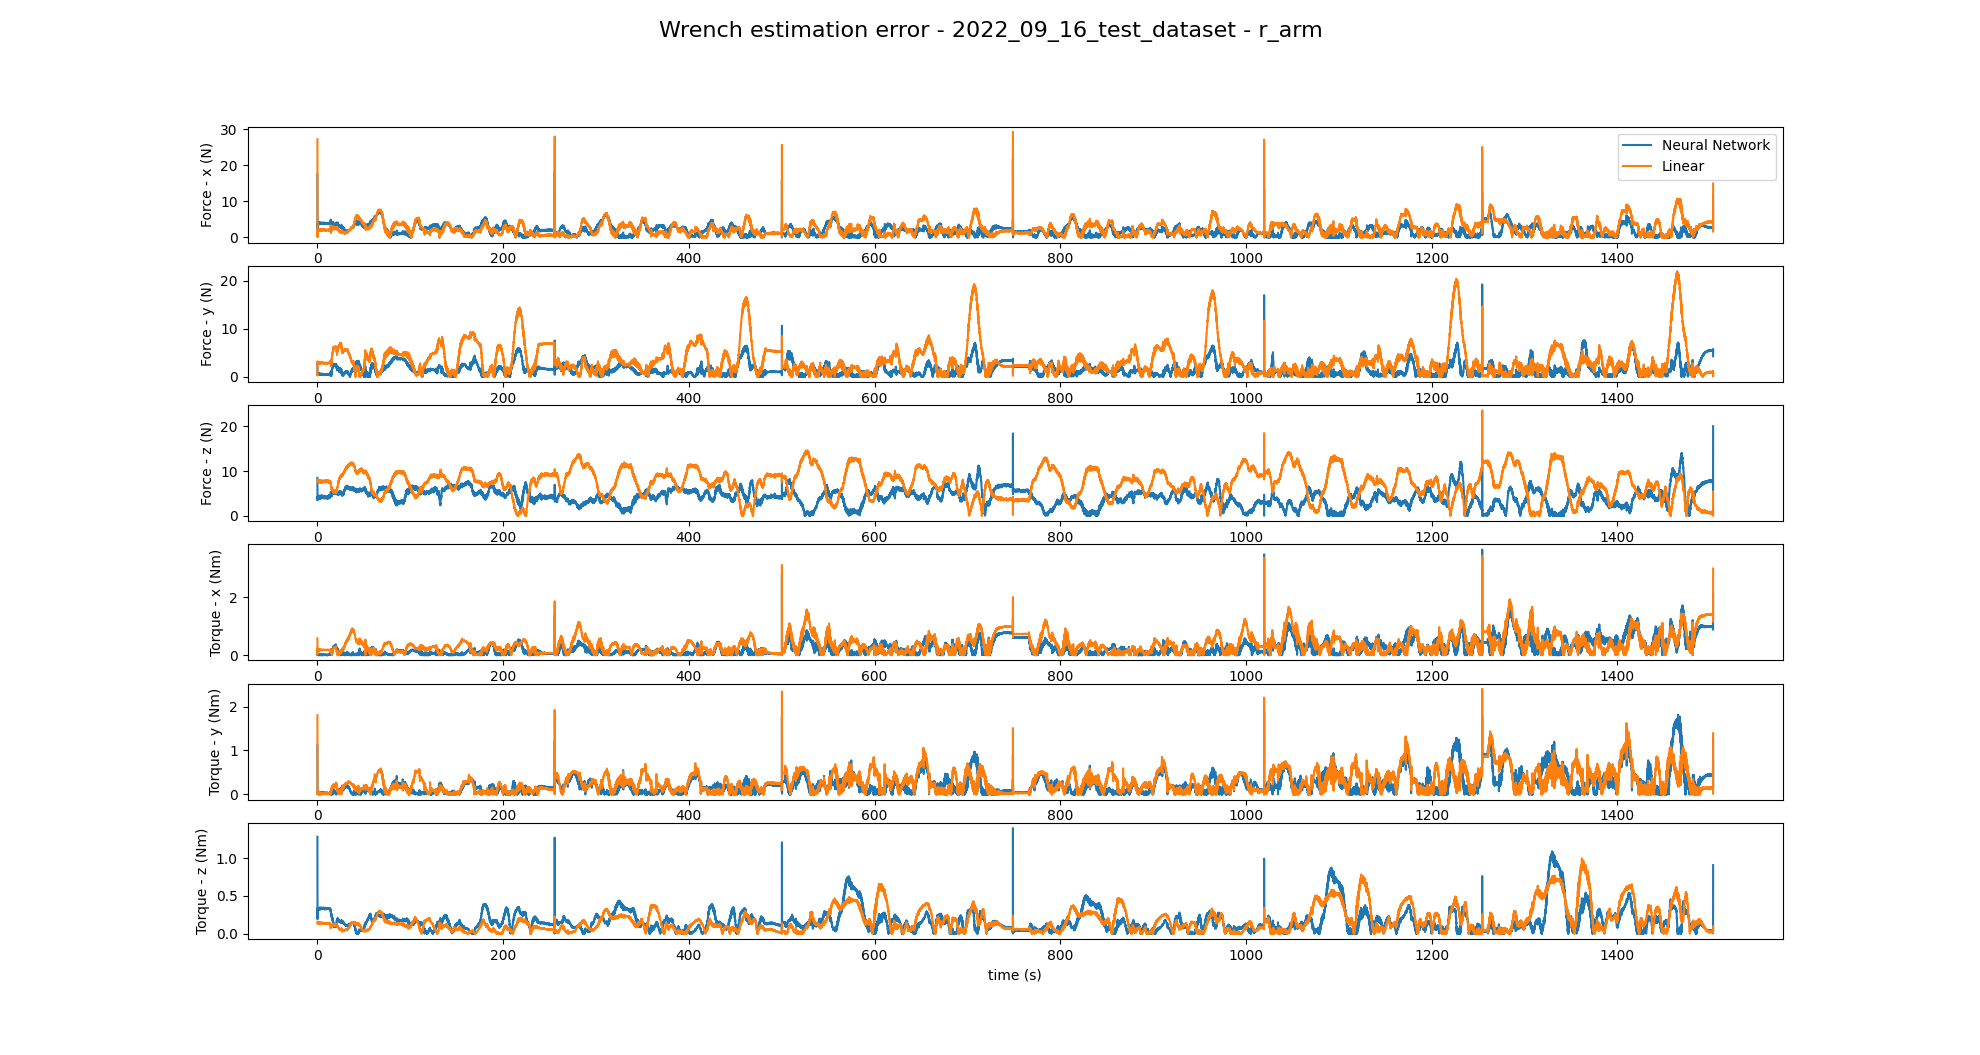
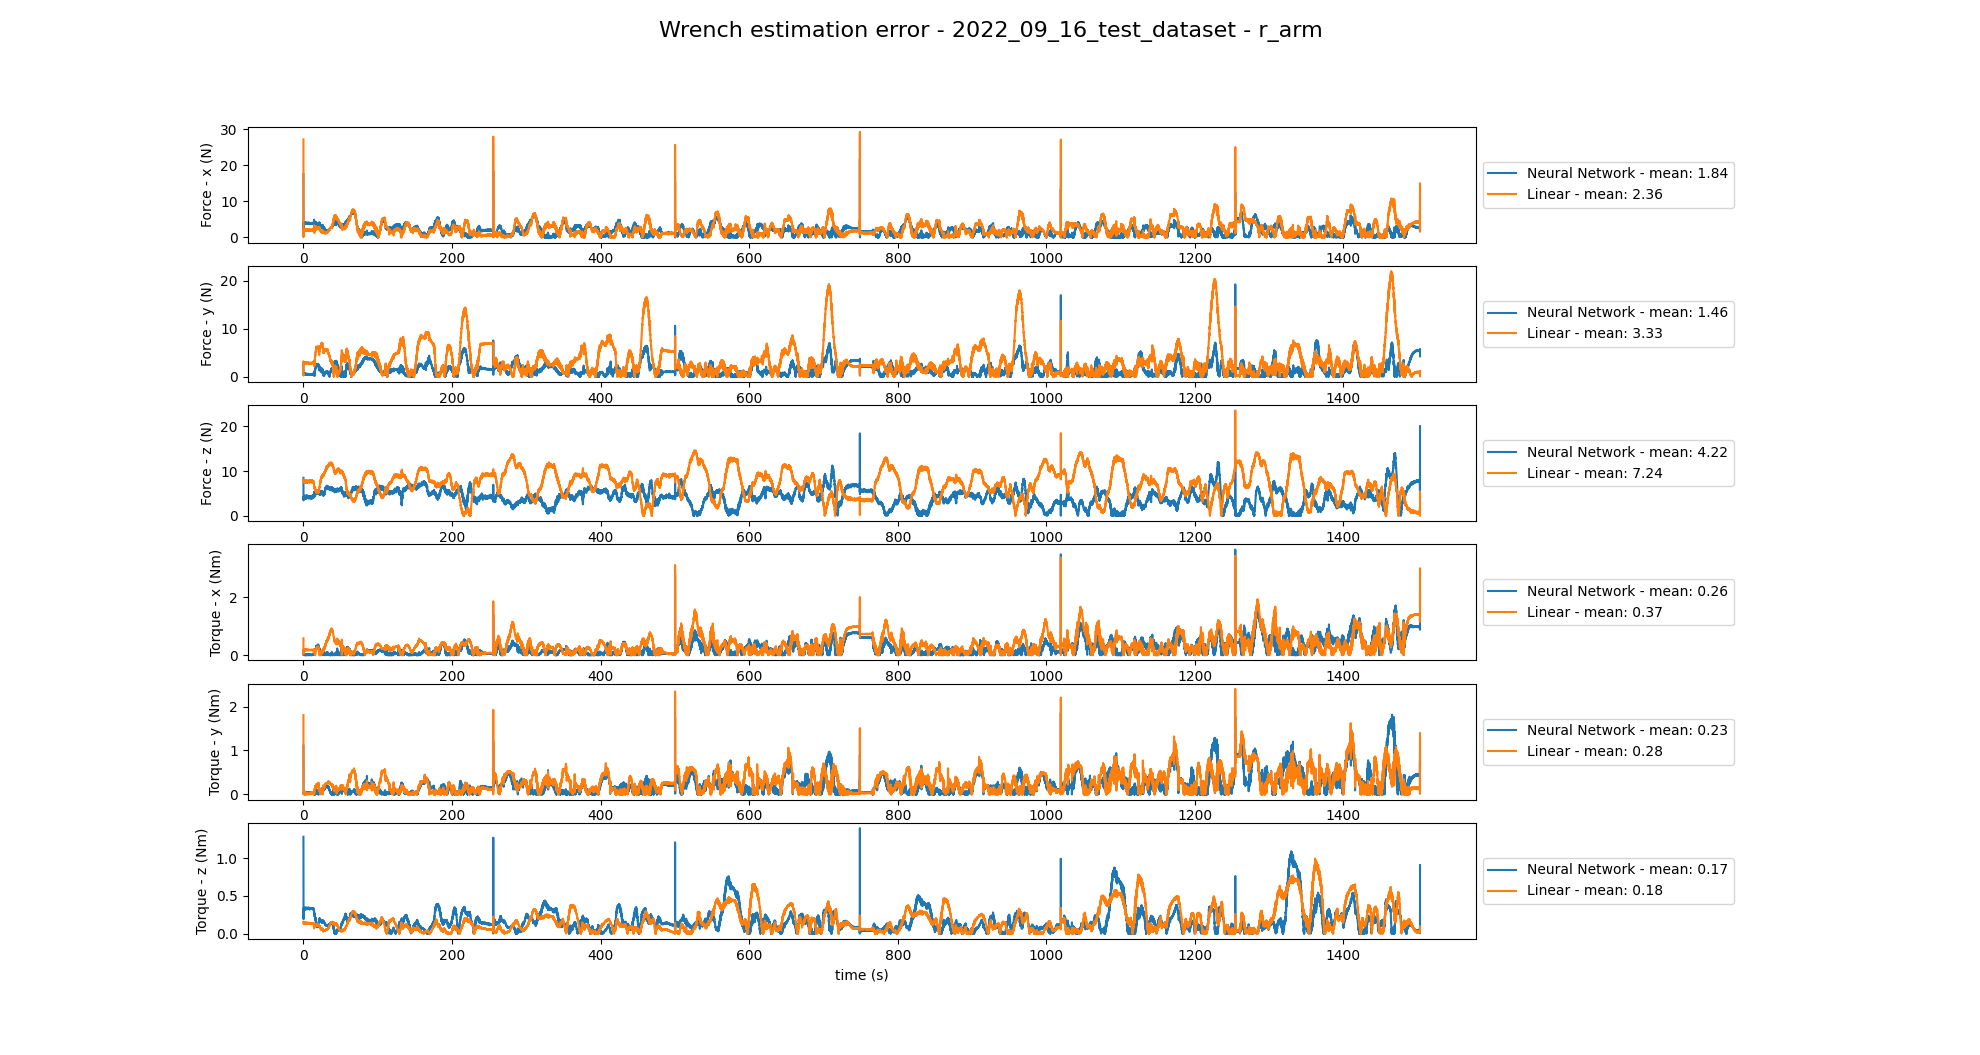
Update plots for weight estimation and wrench estimation error

diff --git a/python/evaluate_net.py b/python/evaluate_net.py
@@ -125,8 +125,8 @@ if __name__ == "__main__":
             ax[1].grid()
 
         fig.suptitle("Wrench estimation - " + test_dataset + " - " + part , fontsize=16)
-        manager = plt.get_current_fig_manager()
-        manager.full_screen_toggle()
+        # manager = plt.get_current_fig_manager()
+        # manager.full_screen_toggle()
         plt.show()
         fig.savefig("../figures/fig1_"+test_dataset+"_"+model_specification+".png")
 
@@ -144,22 +144,37 @@ if __name__ == "__main__":
         b, a = butter(2, 0.0003, btype='low', analog=False)
         # b, a = butter(2, 0.9999, btype='low', analog=False)
         fig = plt.figure()
+
+        ground_truth = np.linalg.norm(dataset["ft_expected"][:, :3], axis=1) / 9.80665 - 3.5 + 0.165
         plt.plot(np.array(range(len(predict_dataset[:, 0]))) * 0.01,
-                 np.linalg.norm(dataset["ft_expected"][:, :3], axis=1) / 9.80665 - 3.5 + 0.165,
+                 ground_truth,
                  label="Ground Truth")
+
+        # Compute RMSE for the neural network
+        filtered_nn_output = filtfilt(b, a, np.linalg.norm(ft_filtered_NN, axis=1) / 9.80665 - 3.5 + 0.165)
+        MSE_nn = np.square(np.subtract(filtered_nn_output, ground_truth)).mean()
+        RMSE_nn = math.sqrt(MSE_nn)
+
         plt.plot(np.array(range(len(predict_dataset[:, 0]))) * 0.01,
-                 filtfilt(b, a, np.linalg.norm(ft_filtered_NN, axis=1) / 9.80665 - 3.5 + 0.165),
-                 label="Neural Network")
+                 filtered_nn_output,
+                 label="Neural Network - RMSE: " + str(round(RMSE_nn, 2)))
+
+        # Compute RMSE for the linear model
+        filtered_linear = filtfilt(b, a, np.linalg.norm(ft_filtered_insitu, axis=1) / 9.80665 - 3.5 + 0.165)
+        MSE_lin = np.square(np.subtract(filtered_linear, ground_truth)).mean()
+        RMSE_lin = math.sqrt(MSE_lin)
+
         plt.plot(np.array(range(len(predict_dataset[:, 0]))) * 0.01,
-                 filtfilt(b, a, np.linalg.norm(ft_filtered_insitu, axis=1) / 9.80665 - 3.5 + 0.165),
-                 label="Linear")
+                 filtered_linear,
+                 label="Linear - RMSE: " + str(round(RMSE_lin, 2)))
+        
         plt.xlabel("time (s)")
         plt.ylabel("norm(f) / g")
         fig.suptitle("Weight estimation - " + test_dataset + " - " + part , fontsize=16)
         plt.grid()
         plt.legend()
-        manager = plt.get_current_fig_manager()
-        manager.full_screen_toggle()
+        # manager = plt.get_current_fig_manager()
+        # manager.full_screen_toggle()
         plt.show()
         fig.savefig("../figures/fig2_"+test_dataset+"_"+model_specification+".png")
 
@@ -173,28 +188,36 @@ if __name__ == "__main__":
             #     label="FT value with pure offset removal",
             # )
 
-            ax[i].plot(
-                np.array(range(len(predict_dataset[:, i]))) * 0.01,
-                np.abs(predict_dataset[:, i] - dataset["ft_expected"][:, i]),
-                label="Neural Network",
-            )
+            # Compute mean of the neural network error
+            nn_abs_error = np.abs(predict_dataset[:, i] - dataset["ft_expected"][:, i])
 
             ax[i].plot(
                 np.array(range(len(predict_dataset[:, i]))) * 0.01,
-                np.abs(prev_predict[:, i] - dataset["ft_expected"][:, i]),
-                label="Linear",
+                nn_abs_error,
+                label="Neural Network - mean: " + str(round(nn_abs_error.mean(),2)),
             )
 
-            if i == 0:
-                ax[i].legend()
+            # Compute mean of the linear model error
+            linear_abs_error = np.abs(prev_predict[:, i] - dataset["ft_expected"][:, i])
+
+            ax[i].plot(
+                np.array(range(len(predict_dataset[:, i]))) * 0.01,
+                linear_abs_error,
+                label="Linear - mean: " + str(round(linear_abs_error.mean(),2)),
+            )
+
+            # Shrink current axis by 20% and put the legend to the right
+            box = ax[i].get_position()
+            ax[i].set_position([box.x0, box.y0, box.width * 0.8, box.height])
+            ax[i].legend(loc='center left', bbox_to_anchor=(1, 0.5))
 
             ax[i].set_xlabel("time (s)")
             ax[i].set_ylabel(titles[i])
             ax[1].grid()
 
         fig.suptitle("Wrench estimation error - " + test_dataset + " - " + part , fontsize=16)
-        manager = plt.get_current_fig_manager()
-        manager.full_screen_toggle()
+        # manager = plt.get_current_fig_manager()
+        # manager.full_screen_toggle()
         plt.show()
         fig.savefig("../figures/fig3_"+test_dataset+"_"+model_specification+".png")
 
